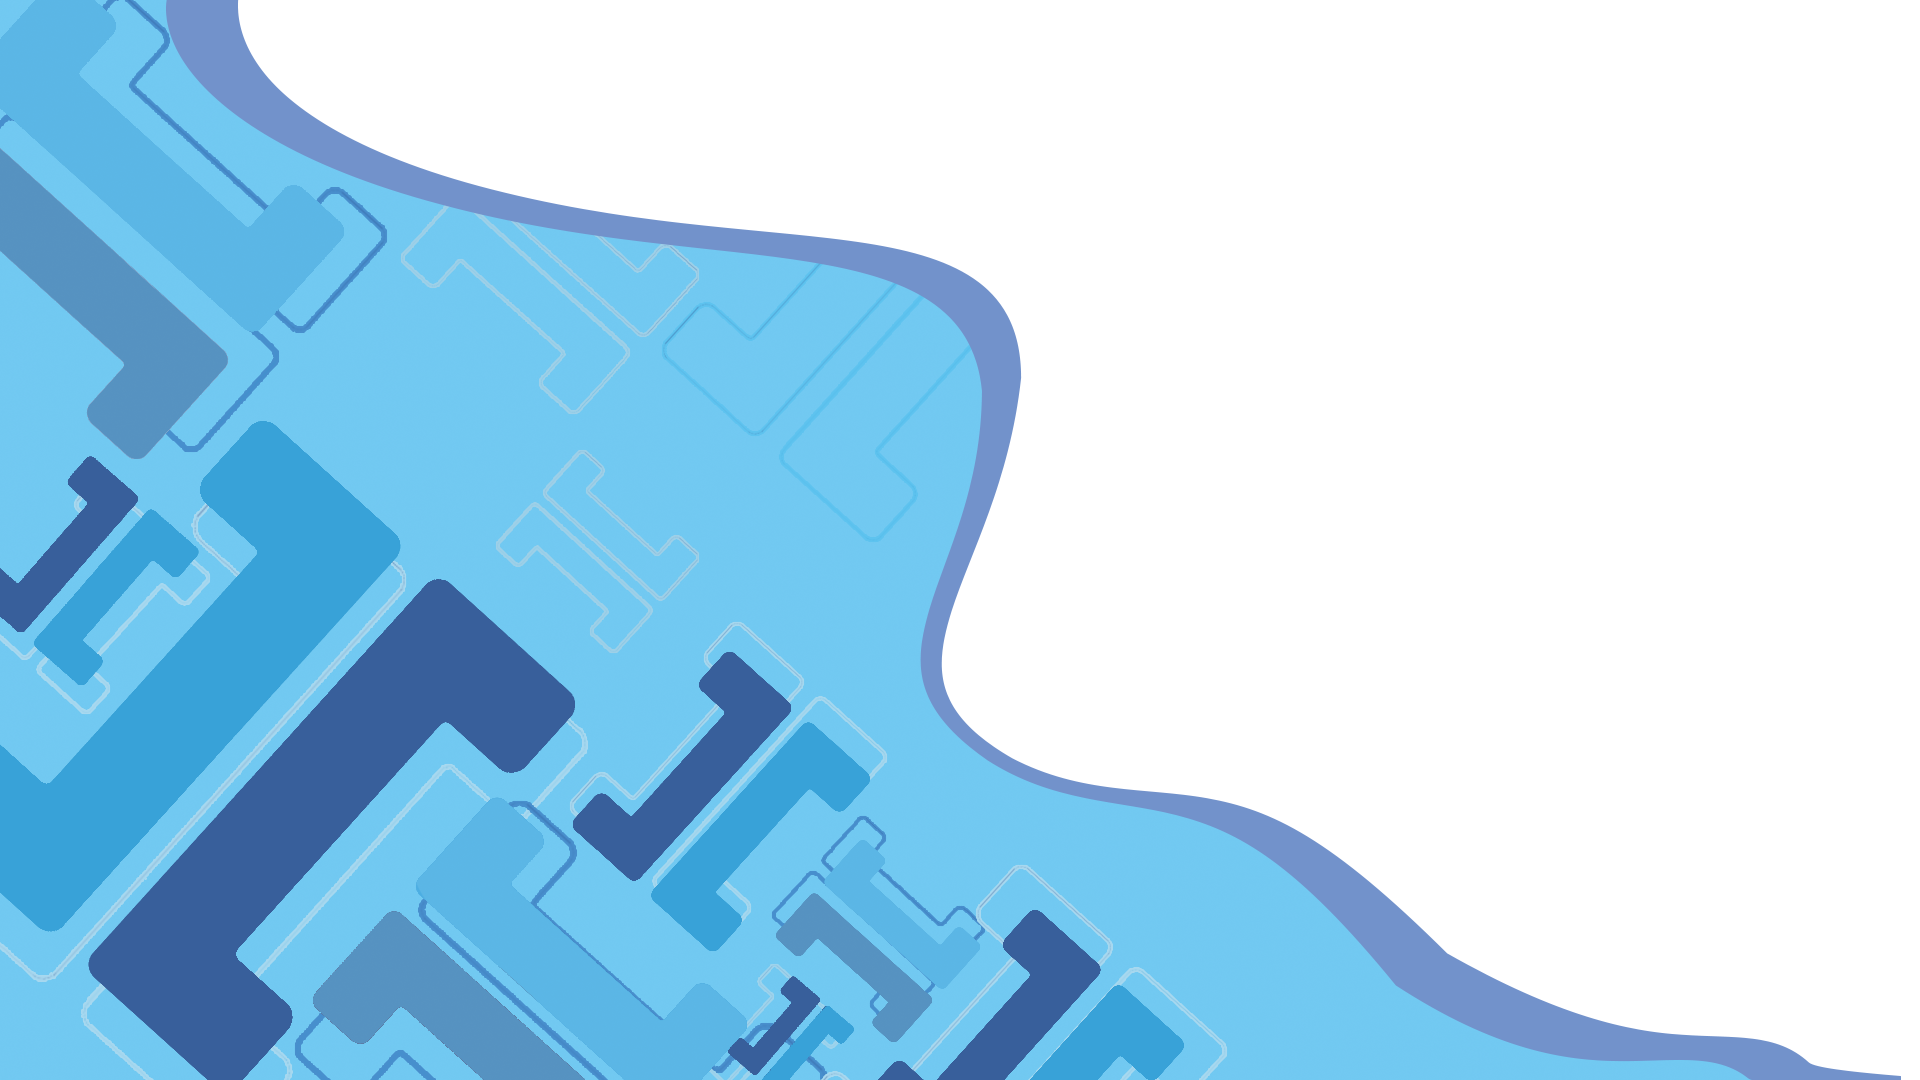
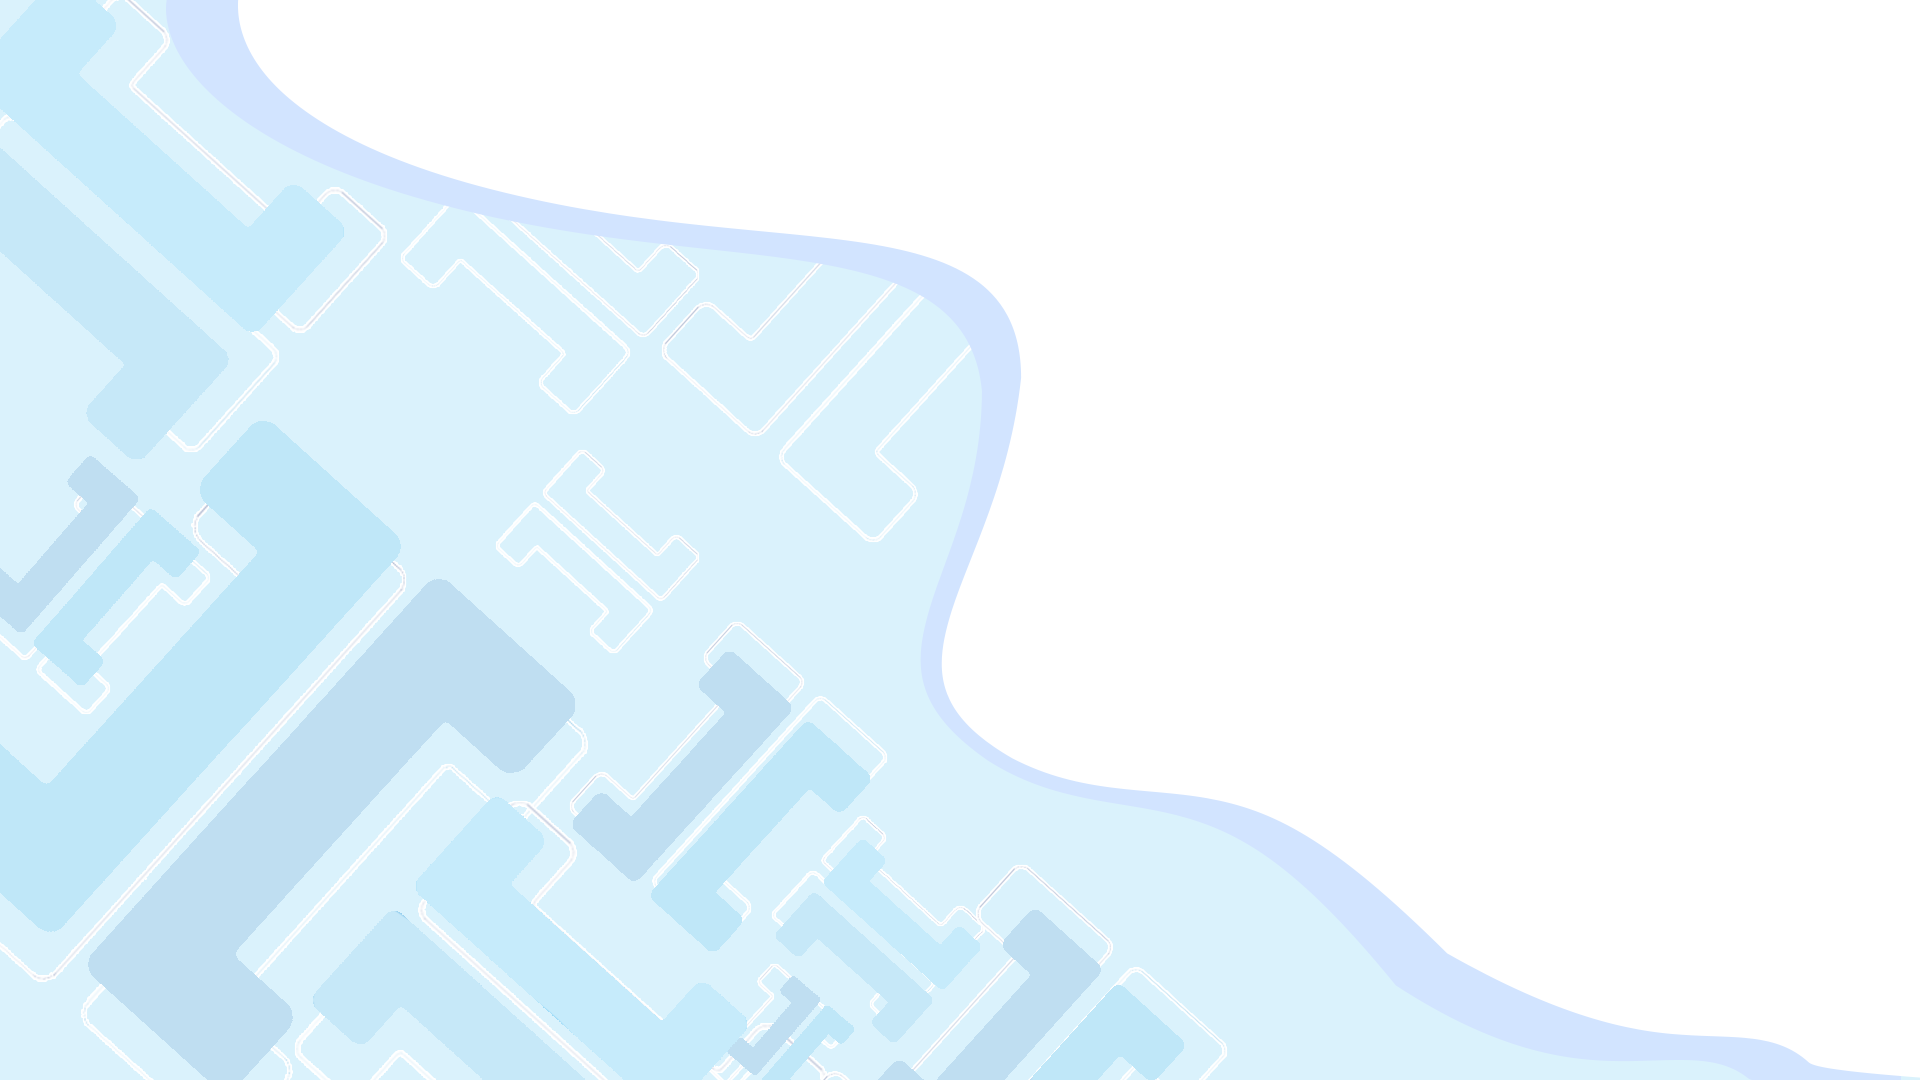
Changes background color and changes in register

diff --git a/public/assets/css/style.css b/public/assets/css/style.css
@@ -578,7 +578,7 @@ section {
 .caption-box {
     margin: auto;
     padding: 2%;
-    width: 500px;
+    width: 400px;
     background: #fff;
     border-radius: 5px;
     box-shadow: 0px 0 20px rgb(0 0 0 / 65%);
@@ -608,13 +608,14 @@ section {
 --------------------------------------------------------------*/
 
 .about {
+    background-color: #2494ce;
     padding-top: auto;
     padding-bottom: auto;
     height: 100vh;
 }
 
 .about .content {
-    background-color: #f6f9ff;
+    background-color: #ffffff;
     padding: 40px;
 }
 
@@ -667,6 +668,12 @@ section {
 /*--------------------------------------------------------------
 # Values
 --------------------------------------------------------------*/
+
+.values {
+    background: url(../img/background2.png);
+    background-size: cover;
+    background-position: center;
+}
 
 .values .values-item {
     box-sizing: content-box;
@@ -759,6 +766,7 @@ section {
 --------------------------------------------------------------*/
 
 .counts {
+    background-color: #daf2fc;
     padding: 70px 0 60px;
 }
 
@@ -796,6 +804,18 @@ section {
 /*--------------------------------------------------------------
 # Features
 --------------------------------------------------------------*/
+
+#features {
+    background: url("../img/Background1.png");
+    background-size: cover;
+    background-position: center;
+}
+
+@media (max-width: 992px) {
+    #features {
+        font-size: 28px;
+    }
+}
 
 .features .feature-box {
     padding: 24px 20px;
@@ -848,7 +868,6 @@ section {
 }
 
 .features .feture-tabs .nav-link {
-    background: none;
     text-transform: uppercase;
     font-size: 15px;
     font-weight: 600;
@@ -1459,6 +1478,10 @@ section {
 # Testimonials
 --------------------------------------------------------------*/
 
+.testimonials {
+    background-color: #daf2fc;
+}
+
 .testimonials .testimonial-item {
     box-sizing: content-box;
     padding: 30px;
@@ -1679,6 +1702,10 @@ section {
 # Recent Blog Posts
 --------------------------------------------------------------*/
 
+.recent-blog-posts {
+    background-color: #daf2fc;
+}
+
 .recent-blog-posts .post-box {
     box-shadow: 0px 0 30px rgba(1, 41, 112, 0.08);
     transition: 0.3s;
@@ -1747,7 +1774,7 @@ section {
 
 .contact .info-box {
     color: #444444;
-    background: #fafbff;
+    background: #daf2fc;
     padding: 30px;
 }
 
@@ -1772,7 +1799,7 @@ section {
 }
 
 .contact .php-email-form {
-    background: #fafbff;
+    background: #daf2fc;
     padding: 30px;
     height: 100%;
 }
@@ -2394,7 +2421,7 @@ section {
 --------------------------------------------------------------*/
 
 .footer {
-    background: #f6f9ff;
+    background: #daf2fc;
     padding: 0 0 30px 0;
     font-size: 14px;
 }

diff --git a/resources/views/content/register.blade.php b/resources/views/content/register.blade.php
@@ -14,34 +14,38 @@
 @section('content')
 <div class="row justify-content-center align-items-center mt-5">
     <div class="col-md-4">
-        <div class="card p-3">
-            <h4>Register</h4>
+        <div class="card p-5">
+            <center>
+            <h2>Create Account</h2>
+            <h5>Get started with your new account</h5>
+            </center>
             <form method="POST" enctype="multipart/form-data" action="{{ route('register') }}">
                 @csrf
+                <br>
                 <div class="form-group">
-                    <label for="f_name">First Name</label>
-                    <input type="text" class="form-control" id="f_name" name="f_name" placeholder="Enter First Name" required>
-                </div>
+                    <!-- <label for="f_name">First Name</label> -->
+                    <input type="text" class="form-control" id="f_name" name="f_name" placeholder="First Name" required>
+                </div><br>
                 <div class="form-group">
-                    <label for=";_name">Last Name</label>
-                    <input type="text" class="form-control" id="l_name" name="l_name" placeholder="Enter Last Name" required>
-                </div>
+                    <!-- <label for=";_name">Last Name</label> -->
+                    <input type="text" class="form-control" id="l_name" name="l_name" placeholder="Last Name" required>
+                </div><br>
                 <div class="form-group">
-                    <label for="email">Email</label>
-                    <input type="email" class="form-control" id="email" name="email" placeholder="Enter E-mail" required>
-                </div>
+                    <!-- <label for="email">Email</label> -->
+                    <input type="email" class="form-control" id="email" name="email" placeholder="E-mail" required>
+                </div><br>
                 <div class="form-group">
-                    <label for="email">User Image</label>
+                    <!-- <label for="email">User Image</label> -->
                     <input type="file" class="form-control" id="user_image" name="user_image" required>
-                </div>
+                </div><br>
                 <div class="form-group">
-                    <label for="username">Username</label>
-                    <input type="text" class="form-control" id="username" name="username" placeholder="Enter Username" required>
-                </div>
+                    <!-- <label for="username">Username</label> -->
+                    <input type="text" class="form-control" id="username" name="username" placeholder="Username" required>
+                </div><br>
                 <div class="form-group">
-                    <label for="password">Password</label>
+                    <!-- <label for="password">Password</label> -->
                     <input type="password" class="form-control" id="password" name="password" placeholder="Password" required>
-                </div>
+                </div><br>
                 <div class="form-check">
                     <input type="checkbox" class="form-check-input" id="exampleCheck1">
                     <label class="form-check-label" for="exampleCheck1">Check me out</label>

diff --git a/resources/views/welcome.blade.php b/resources/views/welcome.blade.php
@@ -85,8 +85,8 @@
             <div class="container">
             <div class="row">
                 <div class="col-lg-6 d-flex flex-column justify-content-center">
-                <h1 data-aos="fade-up">Business Simplified</h1>
-                <h2 data-aos="fade-up" data-aos-delay="400">Simplifying business is all about utilizing the creative resources out there in the technology-advanced world, it implies that streamlining your business with digital advancement can make life a less of a headache for you and your business</h2>
+                <h1 class="mb-4" data-aos="fade-up">Business Simplified</h1>
+                <h4 data-aos="fade-up" data-aos-delay="400">Simplifying business is all about utilizing the creative resources out there in the technology-advanced world, it implies that streamlining your business with digital advancement can make life a less of a headache for you and your business</h4>
                 <div data-aos="fade-up" data-aos-delay="600">
                     <div class="text-center text-lg-start">
                     <a href="#about" class="btn-get-started scrollto d-inline-flex align-items-center justify-content-center align-self-center">
@@ -107,7 +107,7 @@
         <main id="main">
             <!-- ======= About Section ======= -->
             @include('landingcontent.about')
-            <div class="first-p" id="f">
+            <div class="first-p " id="f">
                 <div class="caption px-auto py-auto">
                     <div class="caption-box" data-aos="fade-up" data-aos-delay="600">
                         <h1>WHY PYLON?</h1>

diff --git a/resources/views/landingcontent/feature.blade.php b/resources/views/landingcontent/feature.blade.php
@@ -1,6 +1,6 @@
 <section id="features" class="features">
 
-    <div class="container" data-aos="fade-up">
+    <div class="container" data-aos="fade-up" >
 
         <!-- <header class="section-header">
         <h2>Features</h2>
@@ -186,10 +186,11 @@
                     <p>If you think we aren’t growing your business, you can cancel anytime.</p>
                 </div>
                 </div>
-
+               
+            </div> 
+            
             </div>
-            </div>
-
+            
         </div>
 
         </div><!-- End Feature Icons -->

diff --git a/resources/views/landingcontent/values.blade.php b/resources/views/landingcontent/values.blade.php
@@ -1,6 +1,6 @@
 <section id="values" class="values">
 
-    <div class="container" data-aos="fade-up">
+    <div class="container mt-5" data-aos="fade-up">
 
         <header class="section-header">
         <h2>Business Simplified</h2>
